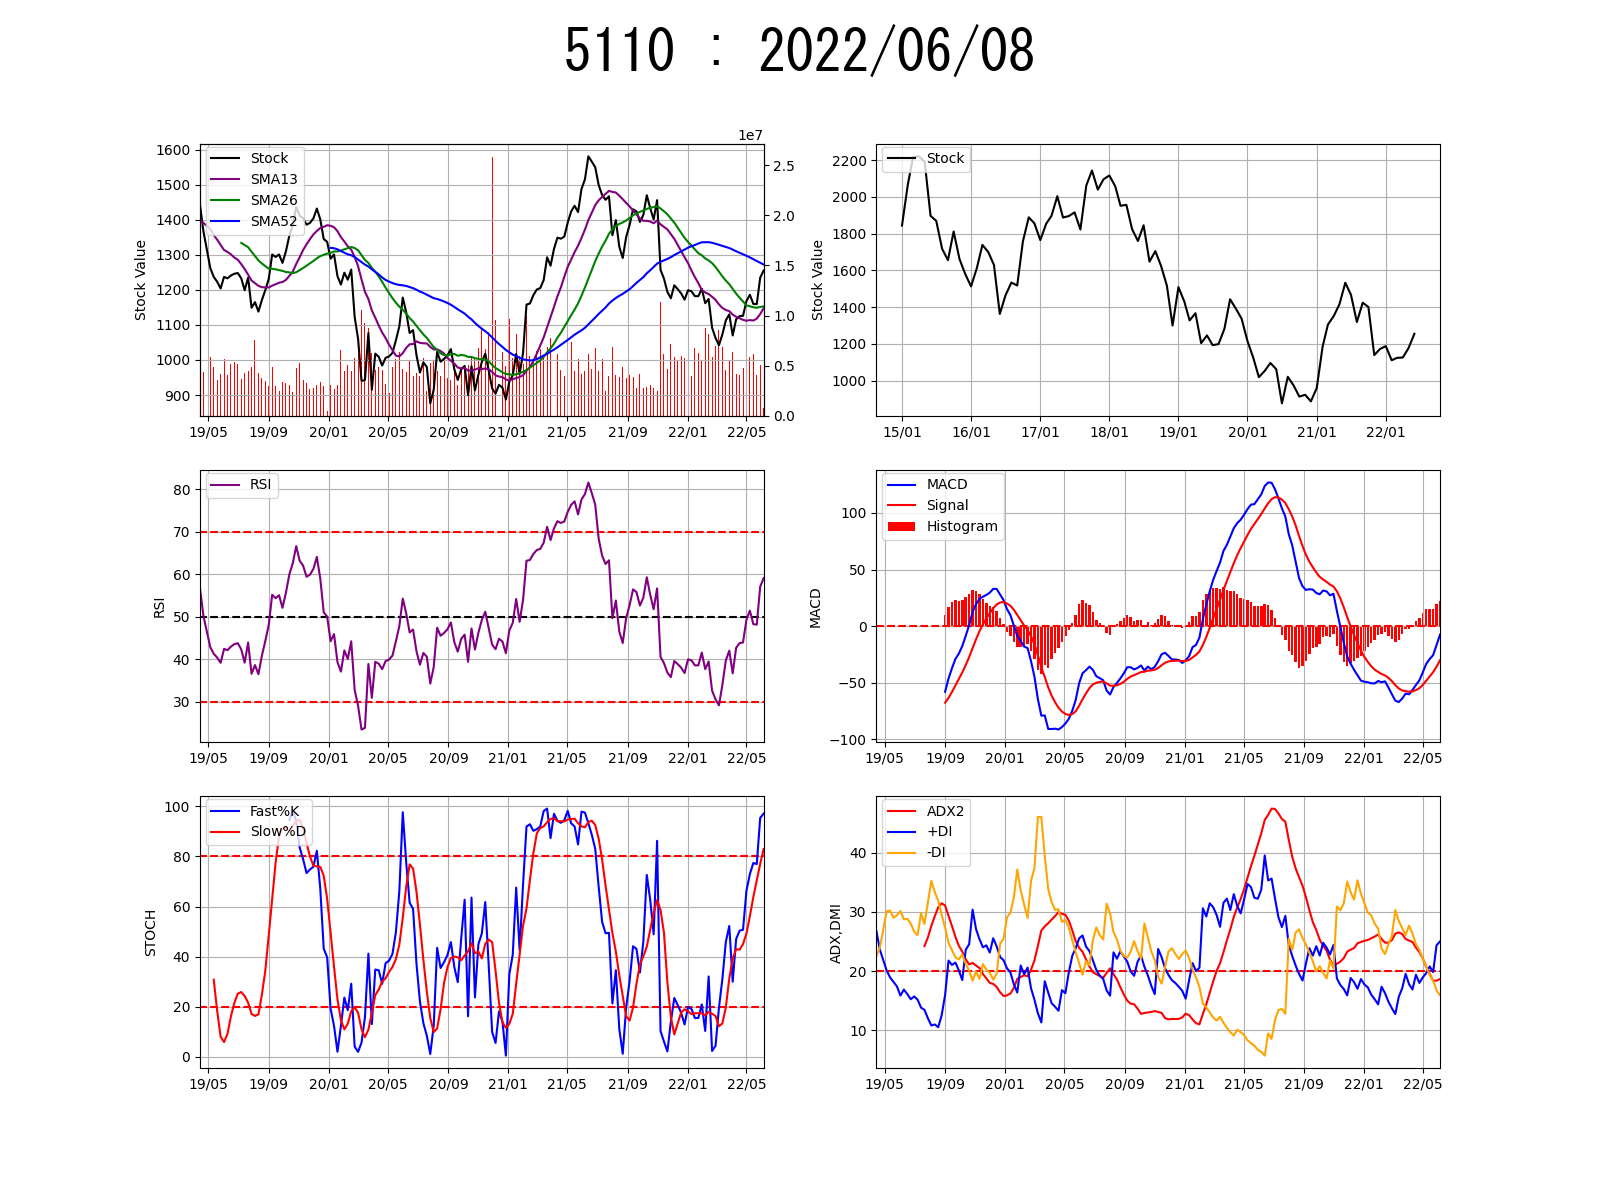
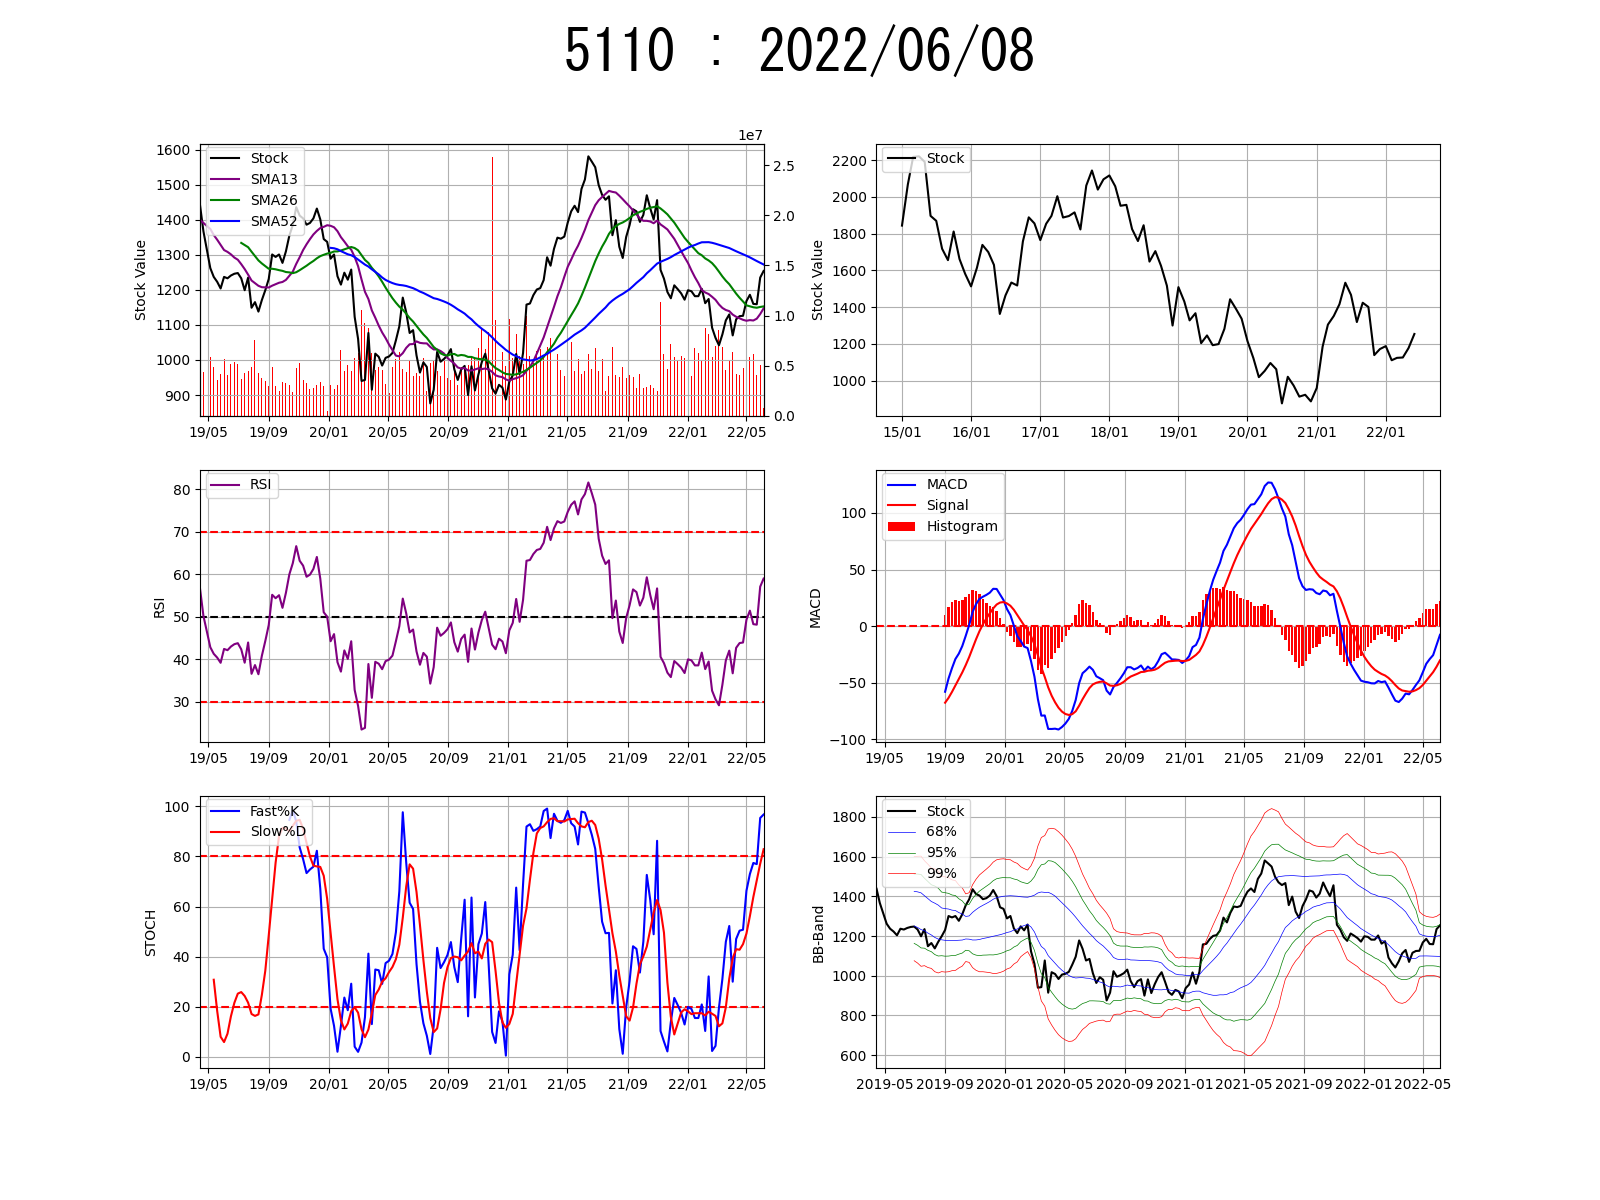
make it better

Changed region(s): [[0.5, 0.6783, 0.9062, 0.925]]

diff --git a/line_bot.py b/line_bot.py
@@ -80,6 +80,10 @@ def handle_message(event):
     ADX = ta.ADX(highp, lowp, closep, timeperiod=14)
     P_DI = ta.PLUS_DI(highp, lowp, closep, timeperiod=14)
     M_DI = ta.MINUS_DI(highp, lowp, closep, timeperiod=14)
+    # Bollinger Bands
+    upper1, middle, lower1 = ta.BBANDS(closep, timeperiod=25, nbdevup=1, nbdevdn=1, matype=0)
+    upper2, middle, lower2 = ta.BBANDS(closep, timeperiod=25, nbdevup=2, nbdevdn=2, matype=0)
+    upper3, middle, lower3 = ta.BBANDS(closep, timeperiod=25, nbdevup=3, nbdevdn=3, matype=0)
 
     fig = plt.figure()
     fig.set_figheight(12)
@@ -135,14 +139,25 @@ def handle_message(event):
     ax4.hlines([0], dfs.index[1], dfs.index[-1], "red", linestyles='dashed')
     ax4.xaxis.set_major_formatter(mdates.DateFormatter('%y/%m'))
 
+    # ax5 = fig.add_subplot(3, 2, 6)
+    # ax5.plot(ADX.index, ADX, "r", label="ADX2")
+    # ax5.plot(P_DI.index, P_DI, "b", label="+DI")
+    # ax5.plot(M_DI.index, M_DI, "orange", label="-DI")
+    # ax5.set_ylabel('ADX,DMI')
+    # ax5.set_xlim([dfs.index[14], dfs.index[-1]])
+    # ax5.hlines([20], dfs.index[1], dfs.index[-1], "red", linestyles='dashed')
+    # ax5.xaxis.set_major_formatter(mdates.DateFormatter('%y/%m'))
+
     ax5 = fig.add_subplot(3, 2, 6)
-    ax5.plot(ADX.index, ADX, "r", label="ADX2")
-    ax5.plot(P_DI.index, P_DI, "b", label="+DI")
-    ax5.plot(M_DI.index, M_DI, "orange", label="-DI")
-    ax5.set_ylabel('ADX,DMI')
+    ax5.set_ylabel('BB-Band')
     ax5.set_xlim([dfs.index[14], dfs.index[-1]])
-    ax5.hlines([20], dfs.index[1], dfs.index[-1], "red", linestyles='dashed')
-    ax5.xaxis.set_major_formatter(mdates.DateFormatter('%y/%m'))
+    ax5.plot(closep.index, closep, "black", label="Stock")
+    ax5.plot(upper1, label='68%', color='b', linewidth=0.5)
+    ax5.plot(lower1, color='b', linewidth=0.5)
+    ax5.plot(upper2, label='95%', color='g', linewidth=0.5)
+    ax5.plot(lower2, color='g', linewidth=0.5)
+    ax5.plot(upper3, label='99%', color='r', linewidth=0.5)
+    ax5.plot(lower3, color='r', linewidth=0.5)
 
     # fig.tight_layout()
 
